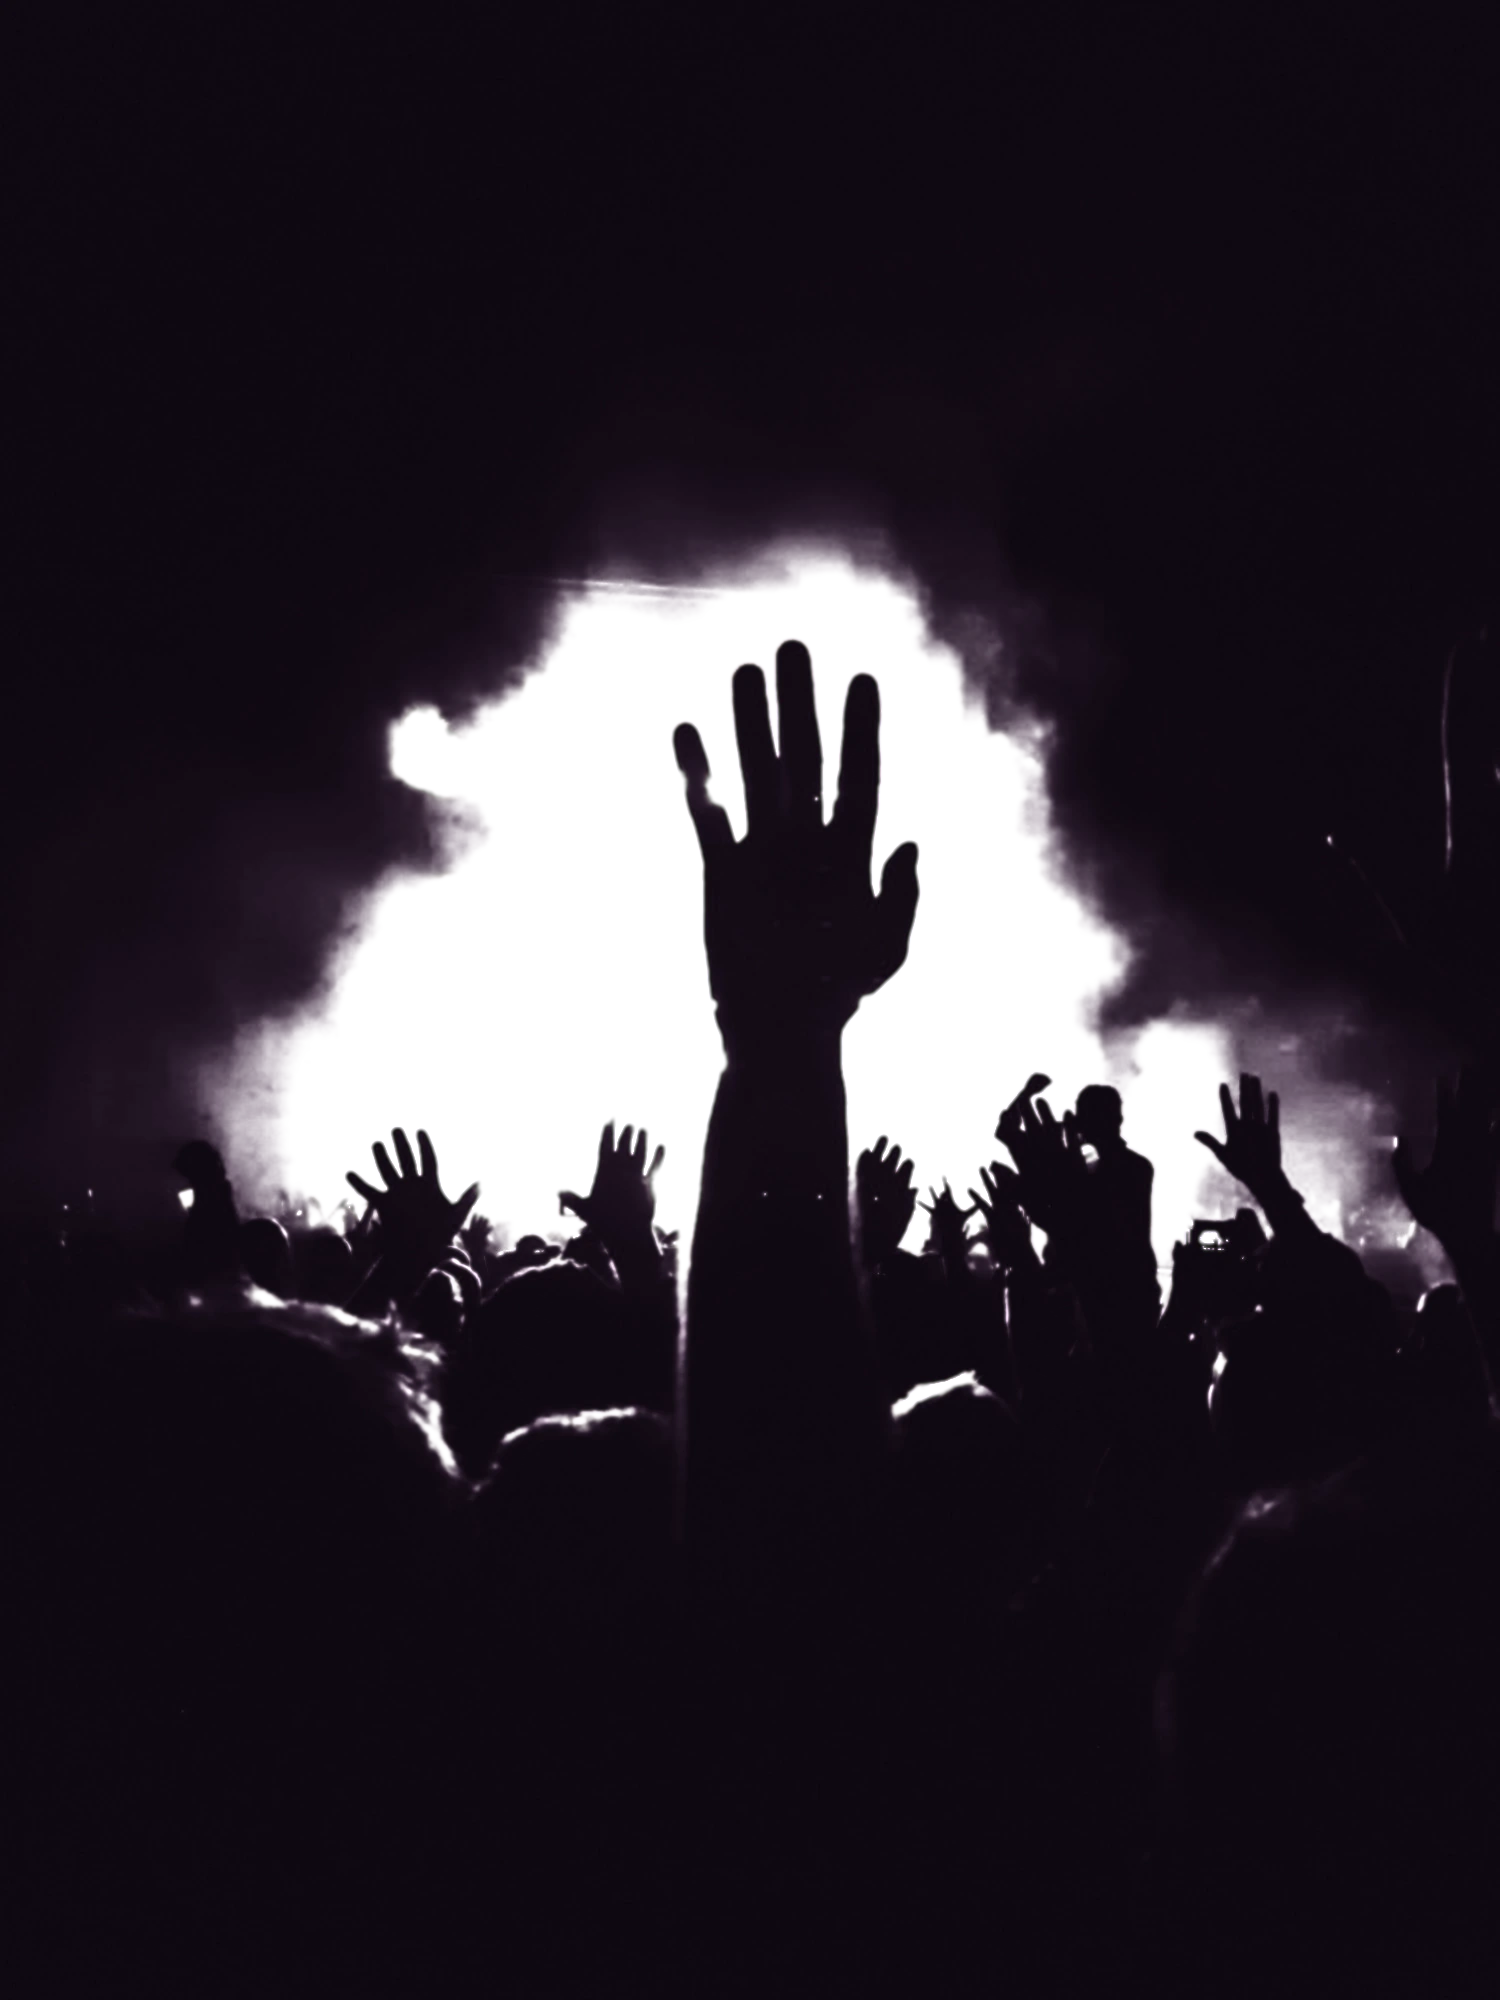
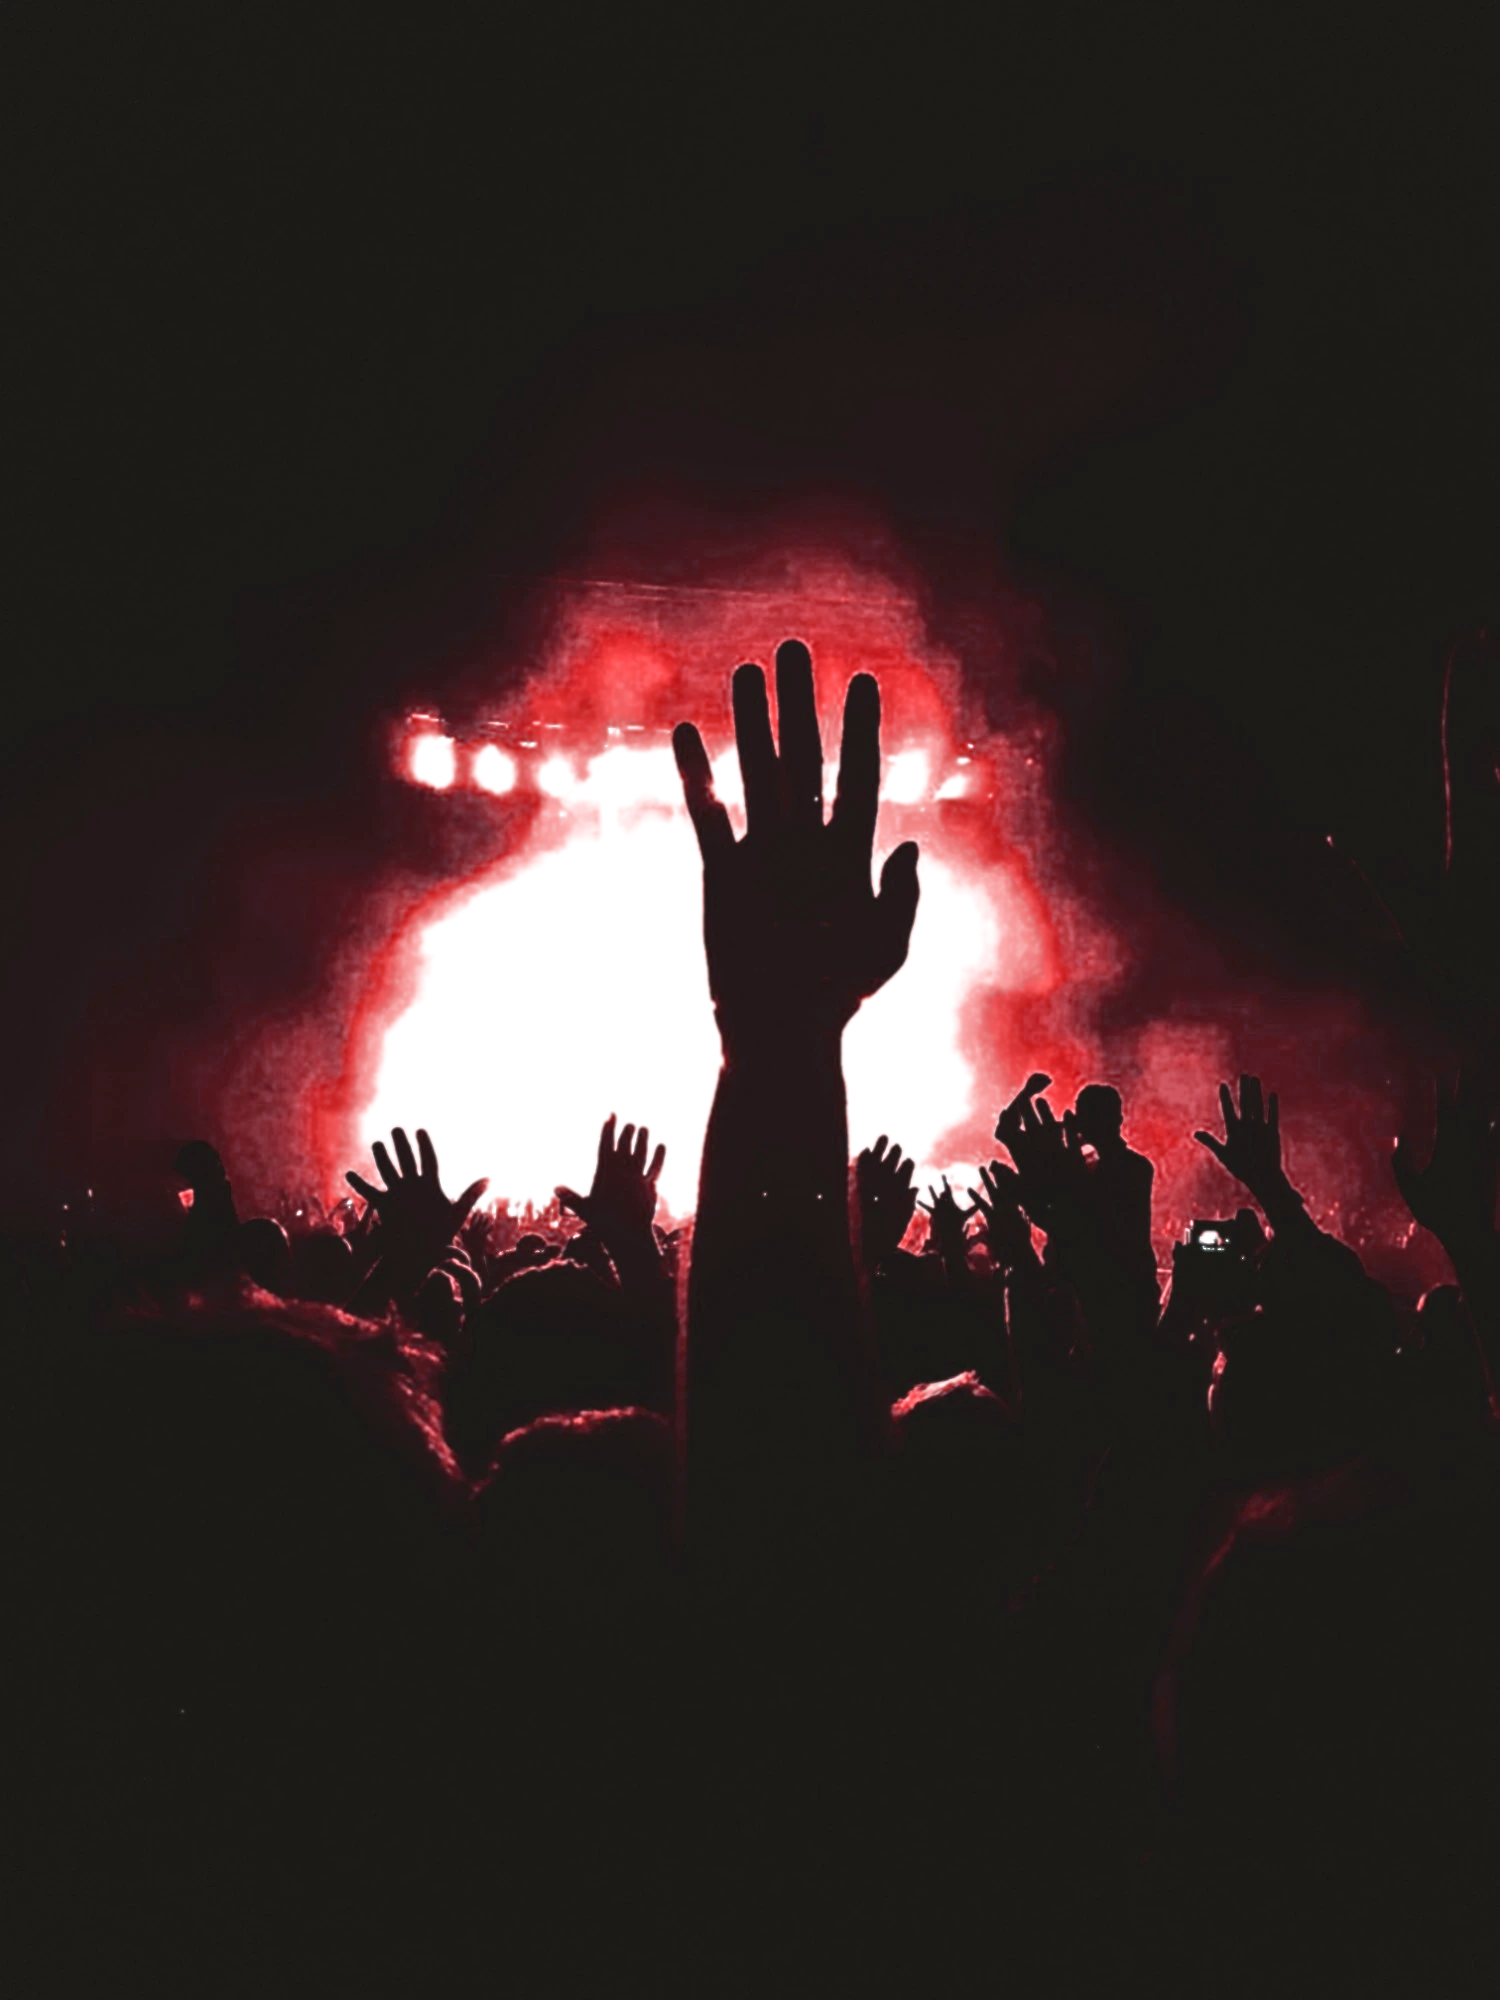
Home: last photo in the same red, JUST TAP IN in capitals, middle photo says what Tap In is for
- The third photo's orange is turned to the same crimson red as the other two
  (hue only; brightness and detail are untouched, rebuilt at full resolution).
- The headline's last line reads JUST TAP IN. in capitals.
- The middle photo carries: Business events, Conferences and talks, Private events.

Claude-Session: https://claude.ai/code/session_01SiTP2wn1HdnciTk7XSJexB

diff --git a/worker/public/index.html b/worker/public/index.html
@@ -26,7 +26,7 @@
 <link rel="stylesheet" href="/css/tapin.css?v=8">
 <link rel="stylesheet" href="/site.css?v=8">
 <link rel="stylesheet" href="/css/fx.css?v=8">
-<link rel="stylesheet" href="/home.css?v=13">
+<link rel="stylesheet" href="/home.css?v=16">
 <script src="/js/theme.js?v=9"></script>
 <script src="/js/site.js?v=8" defer></script>
 <script src="/js/fx.js?v=10" defer></script>
@@ -72,7 +72,7 @@
     <div class="lp-stage"><img class="bg" src="/img/hands-bg.webp?v=9" width="2000" height="1235" alt="" fetchpriority="high" decoding="async"><img class="fg" src="/img/hands-fg.webp?v=9" width="2000" height="1235" alt="A crowd at a night show with hands raised towards the stage lights" fetchpriority="high" decoding="async"></div>
     <i class="lp-beam b1"></i><i class="lp-beam b2"></i><i class="lp-beam b3"></i><i class="lp-pulse"></i>
     <div class="lp-copy wrap hero-copy">
-      <h1 class="steps"><span class="ln">Find an event,</span> <span class="ln">get your pass,</span> <span class="ln">just <span class="hl">tap in.</span></span></h1>
+      <h1 class="steps"><span class="ln">Find an event,</span> <span class="ln">get your pass,</span> <span class="ln">JUST <span class="hl">TAP IN.</span></span></h1>
       <div class="row cta">
         <a class="btn primary glow" href="/play/">Find an event</a>
         <a class="btn ghost" href="/app/">Open the app</a>
@@ -80,14 +80,21 @@
     </div>
   </section>
 
-  <section class="lp band" style="--pos:50% 17%;--pos-m:50% 20%">
+  <section class="lp band" aria-label="Business events, conferences and private events" style="--pos:50% 17%;--pos-m:50% 20%">
     <div class="lp-stage"><img class="bg" src="/img/talk.webp?v=1" width="1333" height="2000" alt="An audience watching a talk in a dark hall, a red screen above them reading Imagine Everything" loading="lazy" decoding="async"></div>
+    <div class="lp-copy wrap">
+      <ol class="words kinds">
+        <li><b>Business</b><span>events</span></li>
+        <li><b>Conferences</b><span>and talks</span></li>
+        <li><b>Private</b><span>events</span></li>
+      </ol>
+    </div>
   </section>
 
   <section class="wrap sec rv" id="guests">
     <div class="split">
       <div class="lp tall" data-live style="--pos:50% 60%">
-        <div class="lp-stage"><img class="bg" src="/img/hand-up-bg.webp?v=10" width="1500" height="2000" alt="" loading="lazy" decoding="async"><img class="fg" src="/img/hand-up-fg.webp?v=10" width="1500" height="2000" alt="One raised hand in a crowd in front of glowing stage lights" loading="lazy" decoding="async"></div>
+        <div class="lp-stage"><img class="bg" src="/img/hand-up-bg.webp?v=11" width="1500" height="2000" alt="" loading="lazy" decoding="async"><img class="fg" src="/img/hand-up-fg.webp?v=11" width="1500" height="2000" alt="One raised hand in a crowd in front of glowing stage lights" loading="lazy" decoding="async"></div>
     <i class="lp-beam b1"></i><i class="lp-beam b2"></i><i class="lp-beam b3"></i><i class="lp-pulse"></i>
       </div>
       <ul class="lines">

diff --git a/worker/public/home.css b/worker/public/home.css
@@ -341,7 +341,7 @@ body.entered .photo-hero{animation:push 1.7s cubic-bezier(.2,.7,.2,1) both}
 .lp-pulse{position:absolute;inset:0;pointer-events:none;background:radial-gradient(60% 70% at 50% 35%,color-mix(in srgb,#b5a0cc 55%,transparent),transparent 70%);mix-blend-mode:screen;opacity:0;animation:lpbeat 1.936s ease-in-out infinite}
 @keyframes lpbeat{0%,100%{opacity:.04}12%{opacity:.3}40%{opacity:.08}}
 .lp::after{content:"";position:absolute;inset:0;z-index:1;pointer-events:none;background:linear-gradient(90deg,rgba(0,0,0,.7),rgba(0,0,0,.12) 58%,transparent),linear-gradient(0deg,rgba(0,0,0,.68),transparent 48%)}
-.lp.tall::after{background:linear-gradient(0deg,rgba(13,7,15,.45),transparent 40%)}
+.lp.tall::after{background:linear-gradient(0deg,rgba(0,0,0,.45),transparent 40%)}
 .lp-copy{position:absolute;left:0;right:0;bottom:0;z-index:2;padding-block:clamp(26px,6vh,72px);display:grid;gap:clamp(14px,2.6vh,26px)}
 .lp-copy h1,.lp-copy h2{margin:0;color:#fff;text-wrap:balance;text-shadow:0 2px 30px rgba(13,7,15,.55)}
 .lp-copy h1{font-size:clamp(40px,7.4vw,104px);line-height:.96}
@@ -377,6 +377,8 @@ body.entered .photo-hero{animation:push 1.7s cubic-bezier(.2,.7,.2,1) both}
 .fine{font-size:13px;color:var(--muted);max-width:72ch;margin:12px 0 0}
 @media(max-width:760px){.split,.six,.portals{grid-template-columns:1fr}.lp.tall{aspect-ratio:4/5}.photo-hero{height:clamp(520px,calc(100svh - 64px),760px)}.lp-stage img{object-position:var(--pos-m,var(--pos,50% 40%))}.sec{padding-top:36px}}
 @media(max-width:560px){.words.long b{font-size:5.5vw}}
+.words.kinds b{font-size:clamp(22px,3vw,46px)}.words.kinds span{white-space:nowrap}
+@media(max-width:760px){.words.kinds{grid-template-columns:1fr;gap:14px}.words.kinds b{font-size:clamp(22px,6.2vw,34px)}.words.kinds li{grid-template-columns:auto auto;justify-content:start;align-items:baseline;gap:10px}}
 @media(prefers-reduced-motion:reduce){.lp-stage,.lp-stage .bg,.lp-stage .fg,.lp-beam,.lp-pulse{animation:none!important}.lp-pulse{opacity:.06}}
 
 /* photos show as shot: no coloured beams or glow laid over them */

diff --git a/worker/public/enter/index.html b/worker/public/enter/index.html
@@ -10,7 +10,7 @@
 <link rel="stylesheet" href="/css/tapin.css?v=9">
 <link rel="stylesheet" href="/site.css?v=9">
 <link rel="stylesheet" href="/css/fx.css?v=10">
-<link rel="stylesheet" href="/home.css?v=13">
+<link rel="stylesheet" href="/home.css?v=16">
 <link rel="stylesheet" href="/css/appshell.css?v=4">
 <script src="/js/theme.js?v=3"></script>
 <script src="/js/enter.js?v=2"></script>

diff --git a/worker/public/organisers/index.html b/worker/public/organisers/index.html
@@ -26,7 +26,7 @@
 <link rel="stylesheet" href="/css/tapin.css?v=8">
 <link rel="stylesheet" href="/site.css?v=8">
 <link rel="stylesheet" href="/css/fx.css?v=8">
-<link rel="stylesheet" href="/home.css?v=13">
+<link rel="stylesheet" href="/home.css?v=16">
 <script src="/js/theme.js?v=9"></script>
 <script src="/js/site.js?v=8" defer></script>
 <script src="/js/fx.js?v=10" defer></script>
